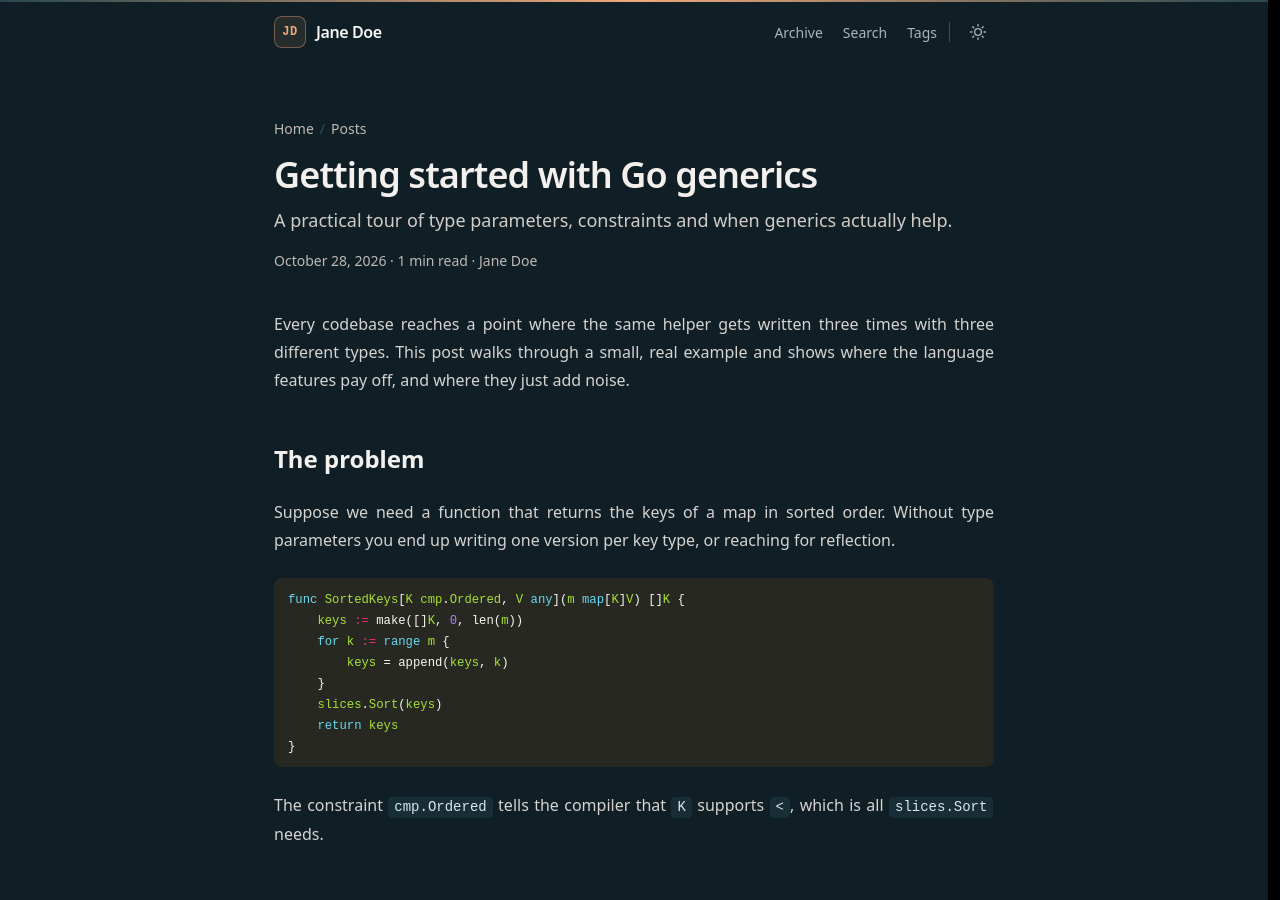
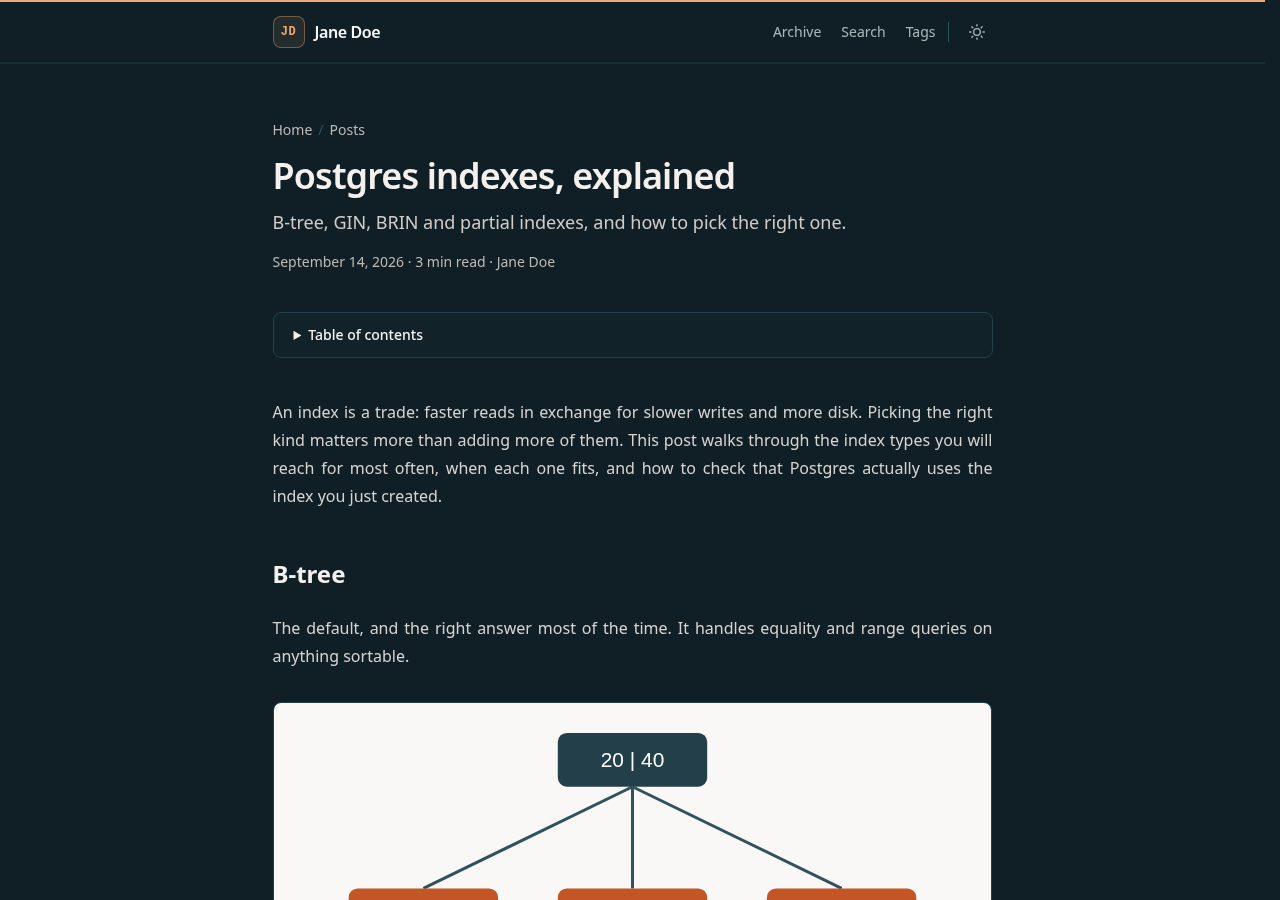
feat: narrow/wide layout option with table of contents sidebar and reading progress bar

diff --git a/layouts/_partials/toc.html b/layouts/_partials/toc.html
@@ -1,11 +1,28 @@
-{{- $show := .Params.ShowToc | default site.Params.ShowToc }}
-{{- if and $show (gt .WordCount 400) }}
-  {{- with .TableOfContents }}
+{{- /* Renders the table of contents. With the wide layout, (dict "page" . "variant" "sidebar") gives the sticky
+       desktop sidebar and anything else the collapsible block shown on small screens. With the narrow layout
+       there is no sidebar and the collapsible block is shown on every screen size. */}}
+{{- $page := .page }}
+{{- $wide := eq (partial "width.html" $page) "wide" }}
+{{- $show := site.Params.ShowToc }}
+{{- if isset $page.Params "showtoc" }}{{ $show = $page.Params.ShowToc }}{{ end }}
+{{- if and $show (gt $page.WordCount 400) }}
+  {{- with $page.TableOfContents }}
     {{- if ne . `<nav id="TableOfContents"></nav>` }}
-<details class="mb-10 rounded-lg border border-stone-200 bg-white px-5 py-3 text-sm dark:border-teal-800 dark:bg-teal-900/30"{{ if ($.Params.TocOpen | default site.Params.TocOpen) }} open{{ end }}>
+      {{- if eq $.variant "sidebar" }}
+        {{- if $wide }}
+<aside class="hidden lg:block" aria-label="{{ i18n "toc" | default "Table of contents" }}">
+  <div id="toc-sidebar" class="toc-sidebar sticky top-24 max-h-[calc(100vh-8rem)] overflow-y-auto pb-4 text-sm">
+    <p class="mb-3 text-xs font-semibold tracking-wider text-teal-800 uppercase dark:text-stone-100">{{ i18n "toc" | default "Table of contents" }}</p>
+    {{ . }}
+  </div>
+</aside>
+        {{- end }}
+      {{- else }}
+<details class="mb-10 rounded-lg border border-stone-200 bg-white px-5 py-3 text-sm{{ if $wide }} lg:hidden{{ end }} dark:border-teal-800 dark:bg-teal-900/30"{{ if ($page.Params.TocOpen | default site.Params.TocOpen) }} open{{ end }}>
   <summary class="cursor-pointer font-medium text-teal-800 select-none dark:text-stone-100">{{ i18n "toc" | default "Table of contents" }}</summary>
   <div class="mt-3 text-stone-600 dark:text-stone-300 [&_a:hover]:text-copper-600 dark:[&_a:hover]:text-copper-300 [&_li]:my-1 [&_ul_ul]:ml-4 [&_ul_ul]:mt-1">{{ . }}</div>
 </details>
+      {{- end }}
     {{- end }}
   {{- end }}
 {{- end }}

diff --git a/assets/js/main.js b/assets/js/main.js
@@ -28,6 +28,59 @@ if (topLink) {
   update();
 }
 
+const progress = document.getElementById("reading-progress");
+const article = document.querySelector("article .content");
+if (progress && article) {
+  let queued = false;
+  const update = () => {
+    queued = false;
+    const { top, height } = article.getBoundingClientRect();
+    const scrollable = height - window.innerHeight;
+    const ratio = scrollable > 0 ? -top / scrollable : top <= 0 ? 1 : 0;
+    progress.style.scale = `${Math.min(1, Math.max(0, ratio))} 1`;
+  };
+  const schedule = () => {
+    if (!queued) {
+      queued = true;
+      requestAnimationFrame(update);
+    }
+  };
+  window.addEventListener("scroll", schedule, { passive: true });
+  window.addEventListener("resize", schedule, { passive: true });
+  update();
+}
+
+const toc = document.getElementById("toc-sidebar");
+if (toc) {
+  const links = [...toc.querySelectorAll('a[href^="#"]')];
+  const targets = links.map((link) => document.getElementById(decodeURIComponent(link.hash.slice(1))));
+  let current = null;
+  let queued = false;
+  const update = () => {
+    queued = false;
+    let index = 0;
+    targets.forEach((target, i) => {
+      if (target && target.getBoundingClientRect().top <= 112) index = i;
+    });
+    const active = links[index];
+    if (active === current) return;
+    current?.removeAttribute("aria-current");
+    active.setAttribute("aria-current", "location");
+    current = active;
+    const { top, bottom } = active.getBoundingClientRect();
+    const box = toc.getBoundingClientRect();
+    if (top < box.top || bottom > box.bottom) active.scrollIntoView({ block: "nearest" });
+  };
+  const schedule = () => {
+    if (!queued) {
+      queued = true;
+      requestAnimationFrame(update);
+    }
+  };
+  window.addEventListener("scroll", schedule, { passive: true });
+  if (links.length) update();
+}
+
 if (script && script.hasAttribute("data-code-copy")) {
   const label = script.dataset.copy || "copy";
   const done = script.dataset.copied || "copied!";

diff --git a/layouts/_partials/header.html b/layouts/_partials/header.html
@@ -1,6 +1,6 @@
 <header id="site-header" class="sticky top-0 z-40 bg-stone-50/80 backdrop-blur-md transition-shadow data-scrolled:shadow-[0_1px_0_var(--color-stone-200),0_8px_24px_-12px_rgb(0_0_0/0.12)] dark:bg-teal-950/80 dark:data-scrolled:shadow-[0_1px_0_var(--color-teal-800),0_8px_24px_-12px_rgb(0_0_0/0.6)]">
-  <div class="h-0.5 bg-linear-to-r from-teal-700 via-copper-500 to-teal-700 dark:from-teal-500/40 dark:via-accent dark:to-teal-500/40" aria-hidden="true"></div>
-  <nav class="mx-auto flex max-w-3xl flex-wrap items-center justify-between gap-x-6 gap-y-3 px-4 py-3.5 sm:px-6" aria-label="Main">
+  <div class="h-0.5 bg-copper-600 dark:bg-accent" aria-hidden="true"></div>
+  <nav class="mx-auto flex {{ cond (eq (partial "width.html" .) "wide") "max-w-5xl" "max-w-3xl" }} flex-wrap items-center justify-between gap-x-6 gap-y-3 px-4 py-3.5 sm:px-6" aria-label="Main">
     <a href="{{ site.Home.RelPermalink }}" accesskey="h" title="{{ site.Title }} (Alt + H)" class="group flex items-center gap-2.5">
       {{- partial "monogram.html" . }}
       <span class="font-semibold tracking-tight text-teal-800 transition-colors group-hover:text-accent dark:text-stone-50">
@@ -34,4 +34,9 @@
       {{- end }}
     </div>
   </nav>
+  {{- if and .IsPage (in site.Params.mainSections .Section) }}
+  <div class="h-0.5 bg-stone-200 dark:bg-teal-900" aria-hidden="true">
+    <div id="reading-progress" class="h-full origin-left scale-x-0 bg-copper-600 dark:bg-accent"></div>
+  </div>
+  {{- end }}
 </header>

diff --git a/layouts/_partials/footer.html b/layouts/_partials/footer.html
@@ -1,6 +1,6 @@
 <footer class="mt-8 bg-stone-100/70 dark:bg-black/20">
   <div class="h-px bg-linear-to-r from-transparent via-copper-400/70 to-transparent dark:via-accent/50" aria-hidden="true"></div>
-  <div class="mx-auto flex max-w-3xl flex-col gap-4 px-4 py-6 text-xs text-stone-600 sm:flex-row sm:items-center sm:justify-between sm:px-6 dark:text-teal-100/60">
+  <div class="mx-auto flex {{ cond (eq (partial "width.html" .) "wide") "max-w-5xl" "max-w-3xl" }} flex-col gap-4 px-4 py-6 text-xs text-stone-600 sm:flex-row sm:items-center sm:justify-between sm:px-6 dark:text-teal-100/60">
     <div class="space-y-1">
       <p class="[&_a]:text-teal-800 [&_a]:underline [&_a]:decoration-copper-400/60 [&_a]:underline-offset-4 [&_a]:transition-colors [&_a:hover]:text-accent [&_a:hover]:decoration-current dark:[&_a]:text-stone-200 dark:[&_a]:decoration-accent/40">
         {{- with site.Copyright }}{{ . | markdownify }}{{ else }}&copy; {{ now.Year }} {{ site.Title }}{{ end }}

diff --git a/layouts/single.html b/layouts/single.html
@@ -1,5 +1,7 @@
 {{- define "main" }}
-<article>
+{{- $sidebar := partial "toc.html" (dict "page" . "variant" "sidebar") | strings.TrimSpace | safeHTML }}
+<div class="{{ if $sidebar }}lg:grid lg:grid-cols-[minmax(0,1fr)_14rem] lg:gap-12{{ else }}mx-auto max-w-3xl{{ end }}">
+<article class="min-w-0">
   <header class="mb-10">
     {{- partial "breadcrumbs.html" . }}
     <h1 class="text-3xl font-semibold tracking-tight text-balance text-teal-800 sm:text-4xl dark:text-stone-100">
@@ -21,7 +23,7 @@
   </figure>
   {{- end }}
 
-  {{- partial "toc.html" . }}
+  {{- partial "toc.html" (dict "page" .) }}
 
   <div class="content">
     {{ .Content }}
@@ -41,4 +43,6 @@
   <section class="mt-12 border-t border-stone-200 pt-8 dark:border-teal-800">{{ partial "comments.html" . }}</section>
   {{- end }}
 </article>
+{{- $sidebar }}
+</div>
 {{- end }}

diff --git a/assets/css/main.css b/assets/css/main.css
@@ -162,6 +162,19 @@
     @apply hidden;
   }
 
+  .toc-sidebar ul {
+    @apply border-l border-stone-200 dark:border-teal-800;
+  }
+  .toc-sidebar ul ul {
+    @apply ml-3 border-l-0;
+  }
+  .toc-sidebar a {
+    @apply -ml-px block border-l-2 border-transparent py-1 pl-3 leading-snug text-stone-500 transition-colors hover:text-teal-900 dark:text-teal-100/60 dark:hover:text-stone-50;
+  }
+  .toc-sidebar a[aria-current] {
+    @apply border-copper-600 font-medium text-copper-700 dark:border-accent dark:text-accent;
+  }
+
   .search-result {
     @apply block rounded-lg border border-stone-200 bg-white px-5 py-4 transition hover:border-copper-300 hover:shadow-sm dark:border-teal-800 dark:bg-teal-900/40 dark:hover:border-copper-700;
   }

diff --git a/layouts/baseof.html b/layouts/baseof.html
@@ -6,7 +6,7 @@
 <body class="flex min-h-screen flex-col font-sans" id="top">
   <a href="#main" class="sr-only focus:not-sr-only focus:absolute focus:top-2 focus:left-2 focus:z-50 focus:rounded focus:bg-copper-600 focus:px-3 focus:py-2 focus:text-white">{{ i18n "skip_to_content" | default "Skip to content" }}</a>
   {{- partial "header.html" . }}
-  <main id="main" class="mx-auto w-full max-w-3xl flex-1 px-4 py-10 sm:px-6 sm:py-14">
+  <main id="main" class="mx-auto w-full {{ cond (eq (partial "width.html" .) "wide") "max-w-5xl" "max-w-3xl" }} flex-1 px-4 py-10 sm:px-6 sm:py-14">
     {{- block "main" . }}{{ end }}
   </main>
   {{- partial "footer.html" . }}

diff --git a/layouts/_partials/width.html b/layouts/_partials/width.html
@@ -1,0 +1,3 @@
+{{- /* Returns "wide" or "narrow": the page's `width` front matter, falling back to the site's `width` param. */}}
+{{- $width := .Params.width | default site.Params.width | default "narrow" }}
+{{- return (cond (eq $width "wide") "wide" "narrow") }}

diff --git a/README.md b/README.md
@@ -10,16 +10,32 @@ A clean personal blog and profile theme for [Hugo](https://gohugo.io), styled wi
 - Light and dark mode, following the system setting by default, with a toggle
 - Client-side search with no external service
 - Archive grouped by year, tag pages, breadcrumbs and previous/next post links
-- Table of contents, heading anchors and copy buttons on code blocks
+- Narrow or wide layout; the wide one shows the table of contents in a sticky sidebar that highlights the current section
+- Reading progress bar under the navigation on posts
+- Heading anchors and copy buttons on code blocks
 - Open Graph, Twitter cards, JSON-LD and Google Analytics 4
 - No JavaScript framework and no web fonts: the CSS is built from the classes your site actually uses
 
 ## Screenshots
 
+### Narrow layout (default)
+
 | Light | Dark |
 | --- | --- |
-| ![Home page, light](images/home-light.png) | ![Home page, dark](images/home-dark.png) |
-| ![Post, light](images/post-light.png) | ![Post, dark](images/post-dark.png) |
+| ![Home page, narrow, light](images/home-light.png) | ![Home page, narrow, dark](images/home-dark.png) |
+| ![Post, narrow, light](images/post-light.png) | ![Post, narrow, dark](images/post-dark.png) |
+
+### Wide layout (`width = "wide"`)
+
+| Light | Dark |
+| --- | --- |
+| ![Home page, wide, light](images/home-wide-light.png) | ![Home page, wide, dark](images/home-wide-dark.png) |
+| ![Post with the table of contents sidebar, light](images/post-wide-light.png) | ![Post with the table of contents sidebar, dark](images/post-wide-dark.png) |
+
+### Archive, search and mobile
+
+| Archive | Search |
+| --- | --- |
 | ![Archive](images/archive.png) | ![Search](images/search.png) |
 
 <p align="center"><img src="images/mobile.png" alt="Home page on a phone" width="300"></p>
@@ -145,8 +161,9 @@ All of these go under `[params]` in `hugo.toml`, and all are optional.
 | `ShowBreadCrumbs` | `true` | Show breadcrumbs above titles |
 | `ShowPostNavLinks` | `true` | Show links to the previous and next post |
 | `ShowCodeCopyButtons` | `true` | Add a copy button to code blocks |
-| `ShowToc` | `false` | Show a table of contents on posts longer than 400 words |
-| `TocOpen` | `false` | Expand the table of contents by default |
+| `width` | `"narrow"` | `"narrow"` for a single reading column, `"wide"` for a wider page with the table of contents in a sidebar next to posts |
+| `ShowToc` | `false` | Show a table of contents on posts longer than 400 words: a sidebar on large screens with the wide layout, a collapsible block otherwise |
+| `TocOpen` | `false` | Expand the collapsible table of contents by default |
 | `comments` | `false` | Show comments under posts (see [Customizing](#customizing)) |
 | `label.text` | site title | Text next to the logo in the header |
 | `label.monogram` | initials | Letters in the logo badge |
@@ -208,6 +225,7 @@ cover:
   image: "images/cover.png"
   alt: "Cover image"
   caption: "Optional caption"
+width: wide             # override the site layout width for this page
 ShowToc: true           # override the site setting for this post
 TocOpen: true
 hideMeta: true          # hide the date, reading time and author

diff --git a/exampleSite/content/posts/postgres-indexes-explained.md b/exampleSite/content/posts/postgres-indexes-explained.md
@@ -5,7 +5,7 @@ description: "B-tree, GIN, BRIN and partial indexes, and how to pick the right o
 tags: ['postgres', 'databases']
 ---
 
-An index is a trade: faster reads in exchange for slower writes and more disk. Picking the right kind matters more than adding more of them.
+An index is a trade: faster reads in exchange for slower writes and more disk. Picking the right kind matters more than adding more of them. This post walks through the index types you will reach for most often, when each one fits, and how to check that Postgres actually uses the index you just created.
 
 ## B-tree
 
@@ -17,9 +17,27 @@ The default, and the right answer most of the time. It handles equality and rang
 CREATE INDEX orders_created_at_idx ON orders (created_at);
 ```
 
+### Column order in multi-column indexes
+
+A B-tree on `(customer_id, created_at)` can serve queries that filter on `customer_id` alone, or on both columns, but not on `created_at` alone. Put the column you always filter on first, and the one you sort or range over second.
+
+### Covering indexes
+
+When a query only needs a few columns, `INCLUDE` adds them to the index leaves so Postgres can answer it with an index-only scan, without visiting the table at all:
+
+```sql
+CREATE INDEX orders_customer_idx ON orders (customer_id) INCLUDE (total, status);
+```
+
 ## GIN
 
 Built for values that contain many keys, such as `jsonb` documents, arrays and full-text search vectors.
+
+```sql
+CREATE INDEX products_attrs_idx ON products USING gin (attributes);
+```
+
+GIN indexes are slower to update than B-trees, because one row can add dozens of entries. On write-heavy tables, keep an eye on how long inserts take after adding one.
 
 ## BRIN
 
@@ -28,3 +46,23 @@ Tiny indexes for huge, naturally ordered tables like append-only event logs. The
 ## Partial indexes
 
 Index only the rows you query. An index on `WHERE status = 'pending'` stays small even when the table grows forever.
+
+```sql
+CREATE INDEX jobs_pending_idx ON jobs (run_at) WHERE status = 'pending';
+```
+
+The planner only uses it when the query's `WHERE` clause implies the index condition, so write the filter the same way in both places.
+
+## Checking that an index is used
+
+Adding an index doesn't mean the planner will pick it. Run the query with `EXPLAIN ANALYZE` and look for an `Index Scan` or `Bitmap Index Scan` on the table:
+
+```sql
+EXPLAIN ANALYZE SELECT * FROM orders WHERE created_at > now() - interval '1 day';
+```
+
+A `Seq Scan` on a large table usually means the index doesn't match the query, the statistics are stale, or the query returns so many rows that reading the whole table is cheaper. Running `ANALYZE` on the table refreshes the statistics.
+
+## Cleaning up
+
+Every index slows down writes and takes space, even when nothing reads it. The `pg_stat_user_indexes` view counts how often each index was scanned since the statistics were last reset; indexes stuck at zero after a few weeks of normal traffic are good candidates to drop.
